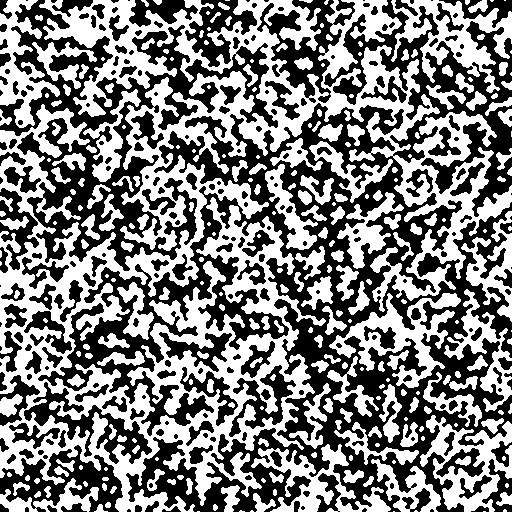
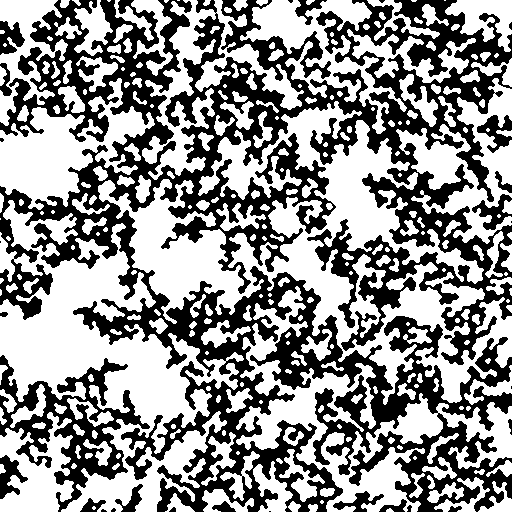
Made a filtering system to only return the largest cave

diff --git a/TerrainGenerator/core/src/com/terraingenerator/cellularautomata/TerrainGenerator.java b/TerrainGenerator/core/src/com/terraingenerator/cellularautomata/TerrainGenerator.java
@@ -2,8 +2,12 @@ package com.terraingenerator.cellularautomata;
 
 import javax.imageio.ImageIO;
 import java.awt.*;
+import java.awt.geom.Point2D;
 import java.awt.image.BufferedImage;
 import java.io.File;
+import java.util.ArrayList;
+import java.util.HashMap;
+import java.util.LinkedList;
 
 /**
  * Created by iassona on 3/11/2017.
@@ -36,7 +40,119 @@ public class TerrainGenerator {
 
         this.iterationRules.setRules(new int[]{0,1,2,3,4}, new int[]{0,1,2,3});
 
-        return this.generate(sizeX, sizeY);
+        boolean[][] wallmap = this.generate(sizeX, sizeY);
+        wallmap = filterCave(wallmap);
+
+        return wallmap;
+
+    }
+
+    /**
+     * This will filter out all small caves and leave just the largest, connect cave.
+     *
+     * @param wallmap
+     * @return
+     */
+    private boolean[][] filterCave(boolean[][] wallmap){
+
+        int sizeX = wallmap.length;
+        int sizeY = wallmap[0].length;
+
+        int[][] filtered = new int[sizeX][sizeY];
+
+        int caveIndex = 1;
+
+        for (int i = 0; i < sizeX; i++){
+            for (int j = 0; j < sizeY; j++){
+                if (wallmap[i][j] == true){
+                    filtered[i][j] = -1;
+                } else {
+                    filtered[i][j] = 0;
+                }
+            }
+        }
+
+        for (int i = 0; i < sizeX; i++){
+            for (int j = 0; j < sizeY; j++){
+
+                if (filtered[i][j] == -1){
+                    continue;
+                }
+
+                if (filtered[i][j] == 0){
+                    filtered[i][j] = caveIndex;
+
+                    LinkedList<Point2D> inCave = new LinkedList<Point2D>();
+                    inCave.add(new Point2D.Double(i, j));
+
+
+                    while(inCave.size() > 0){
+
+                        Point2D currentPoint = inCave.getFirst();
+                        inCave.removeFirst();
+
+                        for (int xVal : new int[]{-1, 0, 1}){
+                            for (int yVal : new int[]{-1, 0, 1}){
+
+                                int xPos = ((int)currentPoint.getX() + xVal) % sizeX;
+                                if (xPos < 0){xPos += sizeX;}
+
+                                int yPos = ((int)currentPoint.getY() + yVal) % sizeY;
+                                if (yPos < 0){yPos += sizeY;}
+
+                                if (filtered[xPos][yPos] == 0){
+                                    filtered[xPos][yPos] = caveIndex;
+                                    inCave.add(new Point2D.Double(xPos, yPos));
+                                }
+                            }
+                        }
+                    }
+
+                    caveIndex++;
+
+                }
+            }
+        }
+
+        HashMap<Integer, Integer> caveCount = new HashMap<Integer, Integer>();
+
+        for (int i = 0; i < sizeX; i++){
+            for (int j = 0; j < sizeY; j++){
+
+                int cave = filtered[i][j];
+
+                if (caveCount.containsKey(cave)){
+                    int count = caveCount.get(cave);
+                    caveCount.put(cave, count + 1);
+                } else {
+                    caveCount.put(cave, 1);
+                }
+            }
+        }
+
+        int mostCave = 0;
+        int mostCaveCount = 0;
+        for (int key : caveCount.keySet()){
+            if (caveCount.get(key) > mostCaveCount && key != -1){
+                mostCave = key;
+                mostCaveCount = caveCount.get(key);
+            }
+        }
+
+        boolean[][] output = new boolean[sizeX][sizeY];
+
+        for (int i = 0; i < sizeX; i++){
+            for (int j = 0; j < sizeY; j++){
+
+                if (filtered[i][j] == mostCave){
+                    output[i][j] = false;
+                } else {
+                    output[i][j] = true;
+                }
+            }
+        }
+
+        return output;
 
     }
 
@@ -90,7 +206,6 @@ public class TerrainGenerator {
         }
 
         return heightmap;
-
     }
 
 
@@ -192,6 +307,12 @@ public class TerrainGenerator {
 
     }
 
+    /**
+     * This saves a PNG of a given heightmap in the root directory of this project
+     *
+     * @param heightmap
+     * @param filename
+     */
     private void writeToPNG(int[][] heightmap, String filename){
 
         int sizeX = heightmap.length;

diff --git a/TerrainGenerator/core/src/com/terraingenerator/Main.java b/TerrainGenerator/core/src/com/terraingenerator/Main.java
@@ -78,6 +78,8 @@ public class Main extends ApplicationAdapter {
 		this.img = new Texture(pixmap);
 
 		batch.draw(this.img, 0, 0);
+
+		this.pixmap.dispose();
 	}
 
 }
